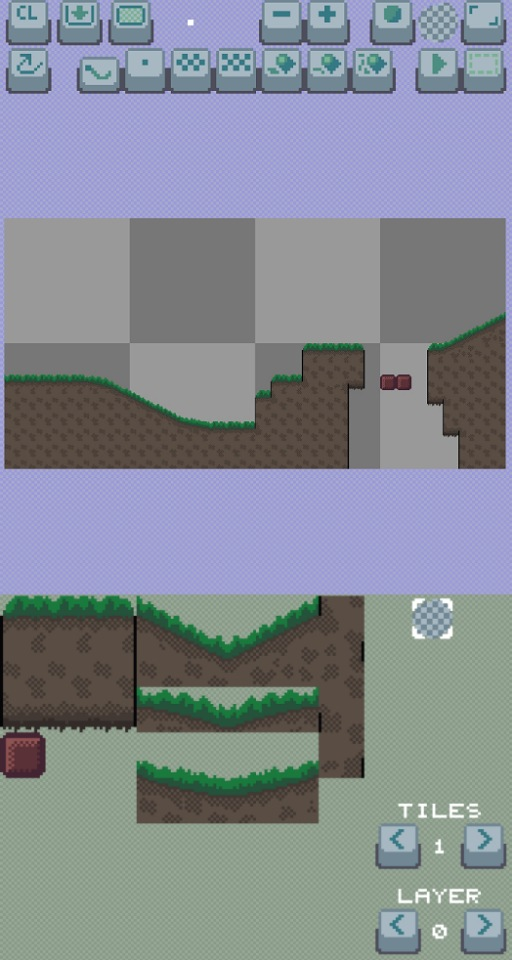
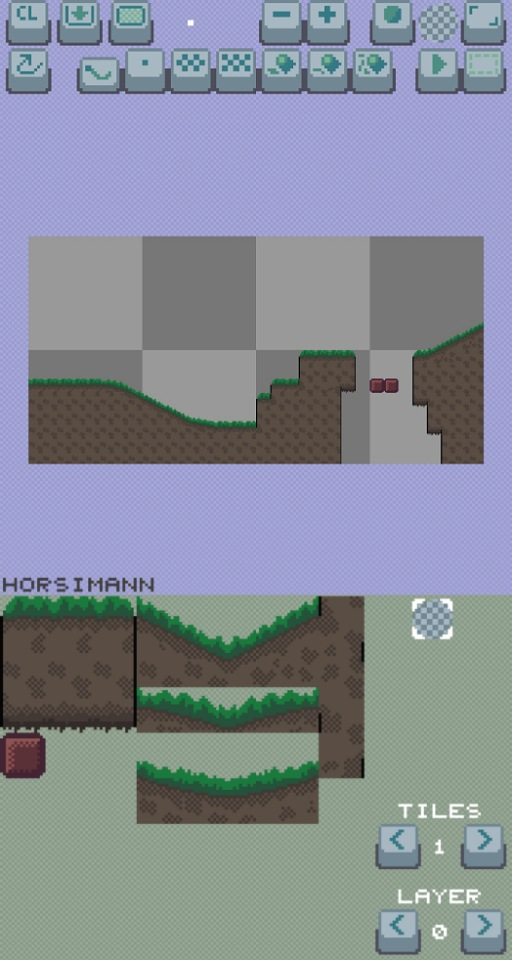
gpush

Changed region(s): [[0.0, 0.2188, 1.0, 0.5], [0.0, 0.5938, 0.3125, 0.625], [0.5, 0.4062, 0.5312, 0.4375]]

diff --git a/src/animation.c b/src/animation.c
@@ -1,4 +1,5 @@
 #include "r/ro_single.h"
+#include "r/ro_text.h"
 #include "r/texture.h"
 #include "u/pose.h"
 #include "camera.h"
@@ -12,6 +13,7 @@ struct AnimationGlobals_s animation;
 
 
 static struct {
+	rRoText horsimann;
 	rRoSingle ro;
 	int mcols, mrows;
     int frames;
@@ -50,20 +52,38 @@ void animation_init(int multi_cols, int multi_rows, int frames, float fps) {
 	
 	r_ro_single_init(&L.ro, camera.gl, tex);
 	u_pose_set_w(&L.ro.rect.uv, 1.0/frames);
+	
+	r_ro_text_init_font55(&L.horsimann, 9, camera.gl);
+	vec4 color = {{0.25, 0.25, 0.25, 1}};
+	for(int i=0; i<L.horsimann.ro.num; i++) {
+		L.horsimann.ro.rects[i].color = color;
+	}
+	r_ro_text_set_text(&L.horsimann, "horsimann");
+	
 }
 
 void animation_update(float dtime) {
-	if(!animation.show)
+	if(!animation.show) {
+	    if(camera_is_portrait_mode())
+		    u_pose_set_xy(&L.horsimann.pose,
+		        camera_left()+1, 
+		        ceilf(camera_bottom() + palette_get_hud_size() + 6));
+	    else
+		    u_pose_set_xy(&L.horsimann.pose,
+		       camera_left()+30, ceilf(camera_bottom() + 6));	
 	    return;
-	    
+	}
+	
 	L.time = fmodf(L.time + dtime, L.frames / L.fps);
 	float u = floorf(L.time * L.fps) / L.frames;
 	u_pose_set_x(&L.ro.rect.uv, u);
 }
 
 void animation_render() {
-	if(!animation.show)
+	if(!animation.show) {
+	    r_ro_text_render(&L.horsimann);
 	    return;
+	}
 	    
 	for(int r=0; r<L.mrows; r++) {
 		for(int c=0; c<L.mcols; c++) {
